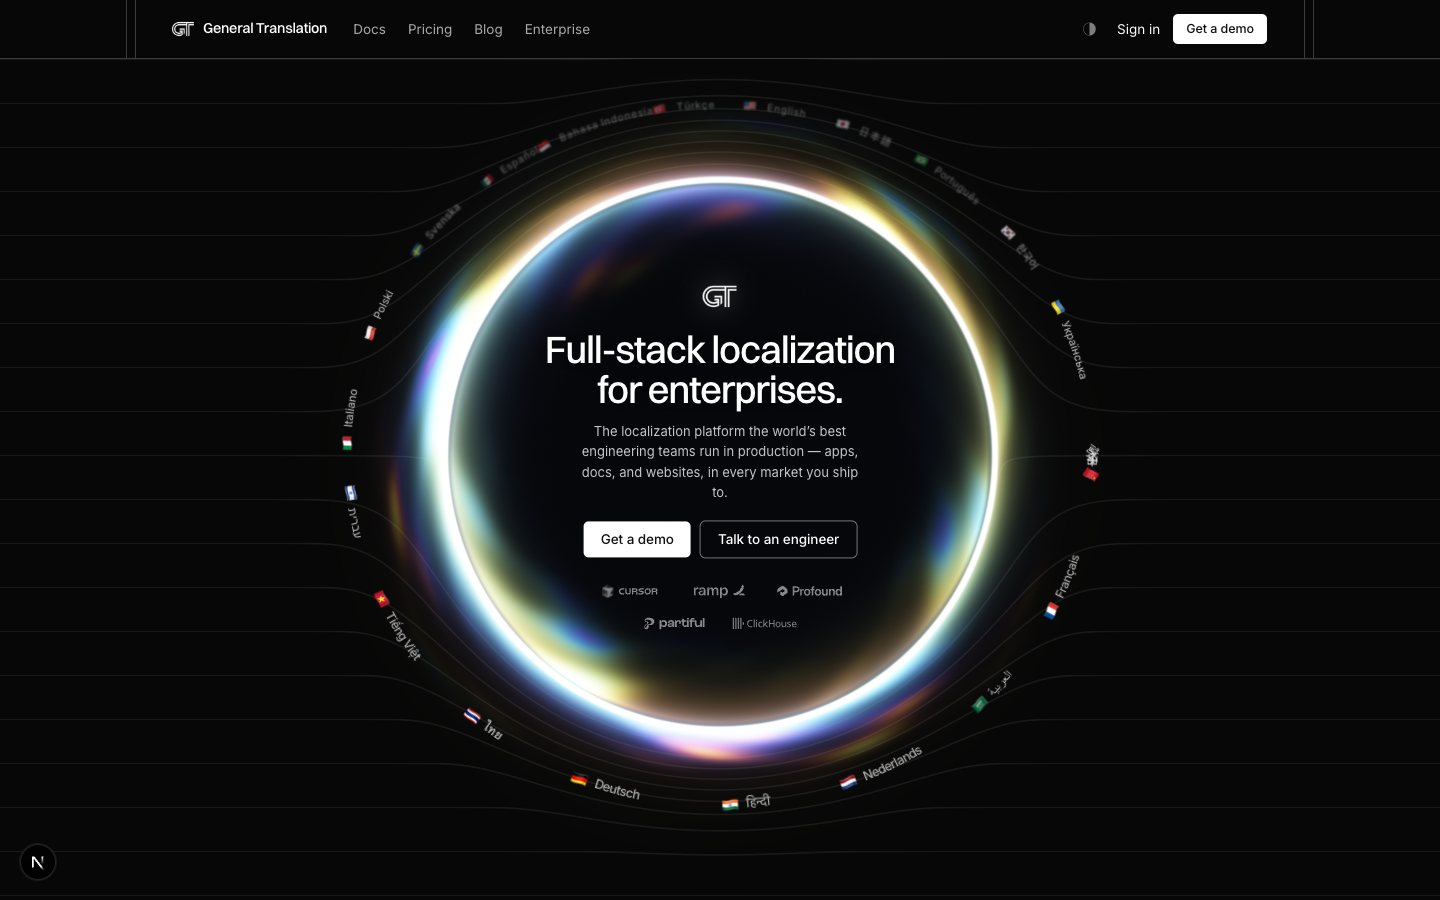
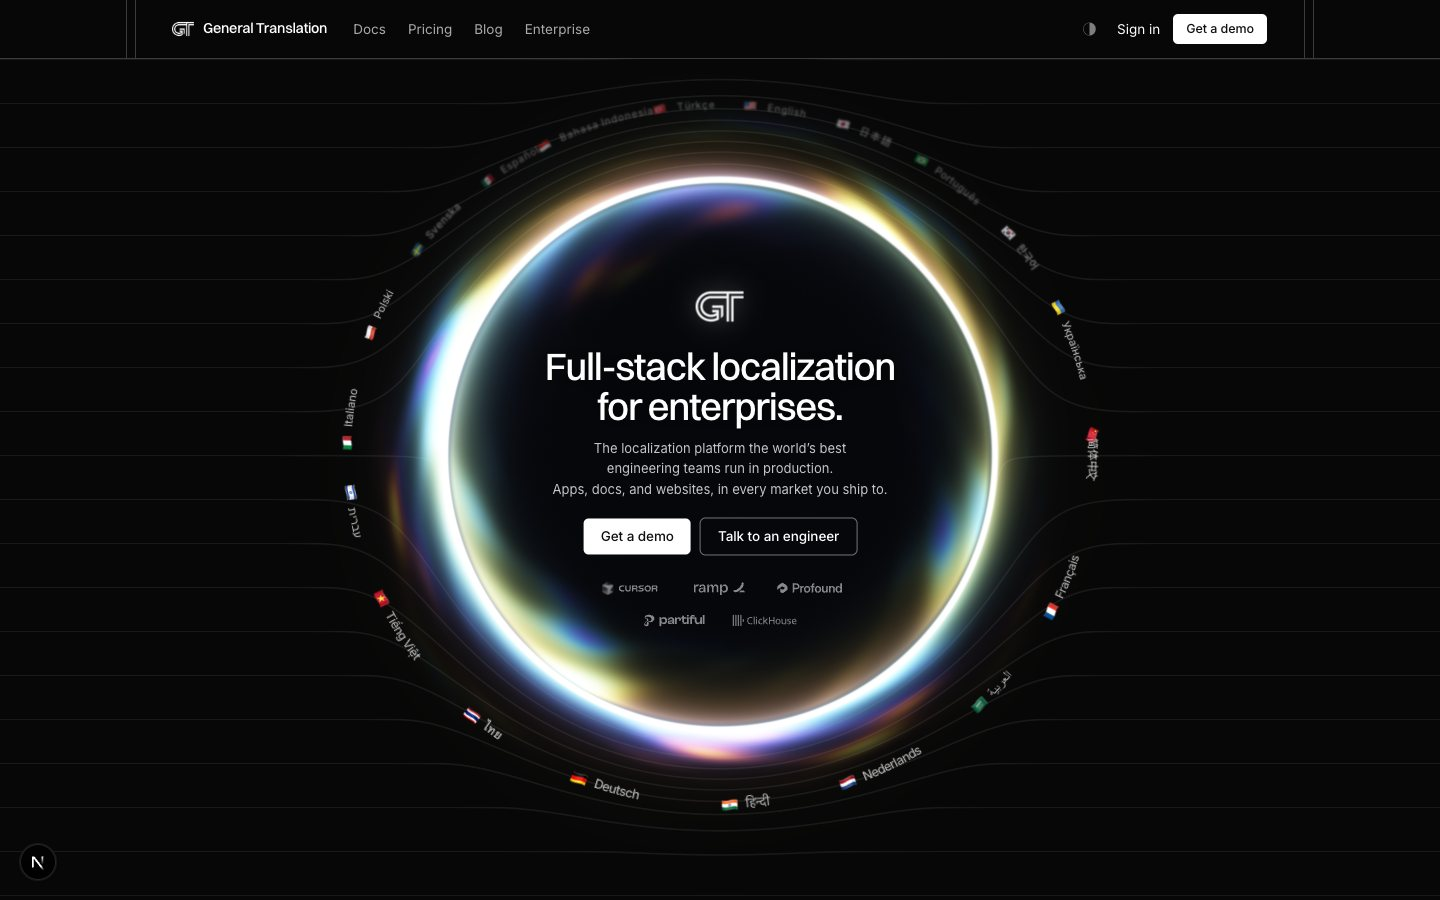
the flag guides the rewrite
Each letter's hop is keyed to a threshold on the flag's own eased
progress instead of a wall-clock delay — the front of the text
reorganization is wherever the flag is. The flag lifts off with the
first letter, sweeps the word on the house bezier, and lands exactly
as the last letter settles. Hero copy sets in three authored lines
(no em dash) and the GT mark grows to 48px.

diff --git a/src/app/d/singularity/sections/Hero.tsx b/src/app/d/singularity/sections/Hero.tsx
@@ -55,6 +55,10 @@ const ORBIT_TILT = 0.94;
 const KEPLER = 0.22;
 /** Seconds a glyph takes to roll over as it crosses the orbit's side. */
 const ROLL_S = 0.5;
+/** The flag's full sweep across the word at a crossing, seconds. */
+const FLAG_SWEEP_S = 1.0;
+/** One letter's hop, triggered as the flag's front reaches it. */
+const LETTER_S = 0.28;
 /** Arc gap between the word's leading edge and its flag, px. */
 const FLAG_PAD = 9;
 
@@ -165,8 +169,9 @@ export default function Hero() {
         el: HTMLElement;
         off: number;
         blend: number;
-        delay: number;
-        /** seconds this glyph's roll takes — the flag's spans the whole ripple */
+        /** the flag-progress threshold at which this letter's hop begins */
+        thr: number;
+        /** seconds this glyph's roll takes */
         dur: number;
       };
       type Word = {
@@ -182,8 +187,8 @@ export default function Hero() {
         const flagEl = parts.find((p) => p.classList.contains('eh-wflag'));
         return {
           root,
-          glyphs: letters.map((el) => ({ el, off: 0, blend: 0, delay: 0, dur: ROLL_S })),
-          flag: flagEl ? { el: flagEl, off: 0, blend: 0, delay: 0, dur: ROLL_S } : null,
+          glyphs: letters.map((el) => ({ el, off: 0, blend: 0, thr: 0, dur: LETTER_S })),
+          flag: flagEl ? { el: flagEl, off: 0, blend: 0, thr: 0, dur: ROLL_S } : null,
           side: -1,
         };
       });
@@ -210,9 +215,15 @@ export default function Hero() {
       orbit.dataset.live = '1';
       void document.fonts.ready.then(buildOffsets);
 
-      const placeGlyph = (g: Glyph, a: number, target: 0 | 1, scale: number, dt: number) => {
-        if (g.delay > 0) g.delay -= dt;
-        else g.blend = clamp01(g.blend + (target > g.blend ? dt / g.dur : -dt / g.dur));
+      const placeGlyph = (
+        g: Glyph,
+        a: number,
+        target: 0 | 1,
+        scale: number,
+        dt: number,
+        gate = true
+      ) => {
+        if (gate) g.blend = clamp01(g.blend + (target > g.blend ? dt / g.dur : -dt / g.dur));
         const roll = ROLL_EASE(g.blend);
         const mNow = 1 - 2 * roll;
         /* every glyph — flag included — mirrors with the same factor, so
@@ -251,21 +262,19 @@ export default function Hero() {
           if (word.side !== side) {
             const first = word.side === -1;
             word.side = side;
+            /* the flag GUIDES the rewrite: each letter's hop is keyed to a
+               threshold on the flag's own eased progress, so the front of
+               the reorganization is wherever the flag is — the flag lifts
+               off with the first letter and lands as the last one settles */
             const order = [...word.glyphs].sort(
               (p, q) => (q.off * (side ? 1 : -1)) - (p.off * (side ? 1 : -1))
             );
+            const m = order.length;
             for (const [rank, g] of order.entries()) {
-              g.delay = first ? 0 : rank * 0.055;
-              g.dur = ROLL_S;
+              g.thr = first ? 0 : (rank + 0.5) / (m + 1);
+              g.dur = LETTER_S;
             }
-            /* the flag's travel spans the WHOLE reorganization: it starts
-               with the first letter and lands with the last, one window */
-            if (word.flag) {
-              word.flag.delay = 0;
-              word.flag.dur = first
-                ? ROLL_S
-                : Math.max(1, order.length - 1) * 0.055 + ROLL_S;
-            }
+            if (word.flag) word.flag.dur = first ? ROLL_S : FLAG_SWEEP_S;
             if (first) {
               for (const g of word.glyphs) g.blend = side;
               if (word.flag) word.flag.blend = side;
@@ -274,8 +283,12 @@ export default function Hero() {
           const scale = 1 - 0.13 * cos;
           const dim = 1 - 0.5 * smooth01((cos - 0.35) / 0.5);
           const blur = 0.9 * smooth01((cos - 0.2) / 0.55);
-          for (const g of word.glyphs) placeGlyph(g, a, side, scale, dt);
+          /* the flag first — its eased progress is the ripple's clock */
           if (word.flag) placeGlyph(word.flag, a, side, scale, dt);
+          const flagProgress = word.flag
+            ? ROLL_EASE(side === 1 ? word.flag.blend : 1 - word.flag.blend)
+            : 1;
+          for (const g of word.glyphs) placeGlyph(g, a, side, scale, dt, flagProgress >= g.thr);
           word.root.style.opacity = dim.toFixed(3);
           word.root.style.filter = blur > 0.05 ? `blur(${blur.toFixed(2)}px)` : '';
         }
@@ -444,16 +457,17 @@ export default function Hero() {
             data-hero-in
             src='/brand/no-bg-gt-logo-dark.png'
             alt='General Translation'
-            width={34}
-            height={34}
+            width={48}
+            height={48}
           />
           <h1 data-hero-in>
             <span>Full-stack localization</span>
             <span>for enterprises.</span>
           </h1>
           <p className='eh-sub' data-hero-in>
-            The localization platform the world&rsquo;s best engineering teams run in production —
-            apps, docs, and websites, in every market you ship to.
+            <span>The localization platform the world&rsquo;s best</span>
+            <span>engineering teams run in production.</span>
+            <span>Apps, docs, and websites, in every market you ship to.</span>
           </p>
           <div className='eh-acts' data-hero-in>
             <a className='tc-btn tc-btn-solid' href='#contact'>

diff --git a/src/app/d/singularity/styles.css b/src/app/d/singularity/styles.css
@@ -908,9 +908,15 @@
 
 .singularity-root .eh-sub {
   margin-top: 12px;
-  max-width: 36ch;
+  max-width: none;
   font-size: 13px;
   line-height: 1.55;
+}
+
+/* three authored lines, no auto-wrap */
+.singularity-root .eh-sub span {
+  display: block;
+  white-space: nowrap;
   color: rgba(255, 255, 255, 0.76);
 }
 
